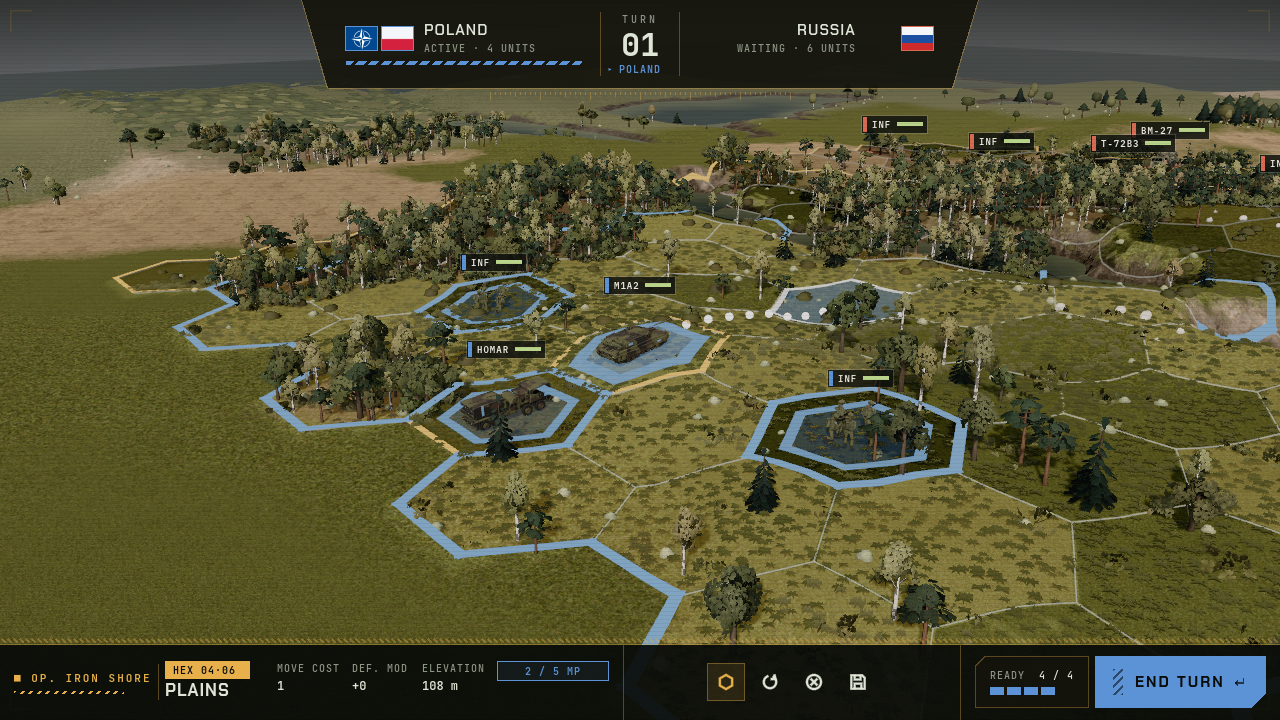
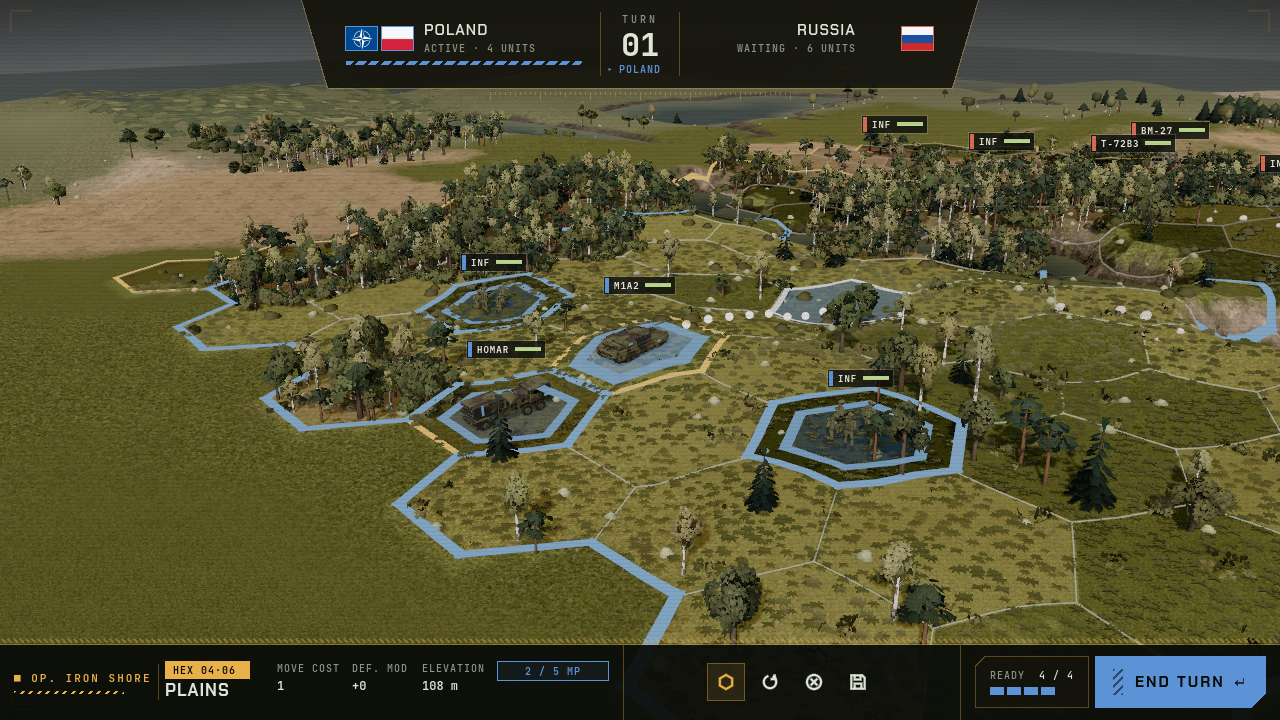
TASK-108h: Real-terrain look v2 – `soil` ground layer and URBAN farmyards (to playtest, night run)

diff --git a/docs/MANUAL.md b/docs/MANUAL.md
@@ -268,7 +268,7 @@ In a battle with command points it spends its points on its most valuable action
 - **Terrain panel** (bottom left): the hovered tile's terrain, hex position (column·row), movement cost (the terrain's own cost), defense bonus and elevation, tags such as `IMPASSABLE`, `ROAD` (a road leaves this hex) and `RIVER +1` (entering this hex costs 1 more), plus a `PATH · 2 / 5 MP` row (in your faction colour) when you have a unit selected and the tile is reachable. Above the panel, `■ OP. IRON SHORE` names the operation.
 - **Selection**: selecting a unit outlines the area it can reach in your colour and slightly darkens the rest of the map; the tile under the cursor is tinted when the unit can move there. Water is never darkened, and unreachable tiles inside the area (such as a lake) get their own outline.
 - **Beyond the map edge**: the land around the map (a little greyer and paler, with trees on HIGH graphics) is scenery only. You can't hover or click tiles there, units can't go there, and the camera can't be panned off the map.
-- **Roads and rivers** (real-terrain maps only): roads are drawn at their real width as narrow gravel roads (a 5 m carriageway with two darker wheel ruts and grassy-earth verges that fade into the ground; they never get thinner than about a pixel and a half on screen, so they stay visible when zoomed out), and rivers as thin blue-grey lines, each running from hex centre to hex centre across the hex sides it links. Trees, rocks and grass don't grow on them. Fields are drawn as large straight strips of one crop each (150–400 m wide, up to over a kilometre long, parallel within a region) – muted olive and grey-green young cereal, maize, potatoes and beet, golden grain, pale stubble, brown ploughed soil and meadows – with faint rows and hedgerow strips between neighbours; nothing grows on the crops themselves (no trees, rocks or tall grass), only the hedgerows carry some trees and shrubs; a parcel does not have to follow hex borders (a hex counts as a field when most of it is), and forests, villages, marshes and water stay unpainted. Villages look gravelly, marshes wet and muddy. Marshes are also covered by dense stands of tall reeds with brown seed heads, and reeds grow in patches along river banks (not in villages) – they are only decoration (marsh rules stay: move 2, no defense bonus). (Houses, bridges and a proper river look come later.)
+- **Roads and rivers** (real-terrain maps only): roads are drawn at their real width as narrow gravel roads (a 5 m carriageway with two darker wheel ruts and grassy-earth verges that fade into the ground; they never get thinner than about a pixel and a half on screen, so they stay visible when zoomed out), and rivers as thin blue-grey lines, each running from hex centre to hex centre across the hex sides it links. Trees, rocks and grass don't grow on them. Fields are drawn as large straight strips of one crop each (150–400 m wide, up to over a kilometre long, parallel within a region) – muted olive and grey-green young cereal, maize, potatoes and beet, golden grain, pale stubble, brown ploughed soil and meadows – with faint rows and hedgerow strips between neighbours; nothing grows on the crops themselves (no trees, rocks or tall grass), only the hedgerows carry some trees and shrubs; a parcel does not have to follow hex borders (a hex counts as a field when most of it is), and forests, villages, marshes and water stay unpainted. Villages look like farmyards (gravel, bare soil and grass mixed), marshes wet and muddy. Marshes are also covered by dense stands of tall reeds with brown seed heads, and reeds grow in patches along river banks (not in villages) – they are only decoration (marsh rules stay: move 2, no defense bonus). (Houses, bridges and a proper river look come later.)
 - **Hex grid**: a faint light grid marks the hexes on land (not over water). It fades as you zoom out and is a little stronger while a unit is selected. Press **G** to hide or show it.
 - **Objective hexes** (only in a battle that has them): each is outlined by a coloured ring along its edge, with a small flag on a pole near one corner and an **OBJECTIVE** tag above the flag (visible even over forest). Ring, flag and the tag's tab are in the colour of the side that holds the hex (red for Russia, blue for Poland) and change colour when the hex is captured.
 - **Done units**: a unit that can neither move nor attack any more this turn has a dimmed tag. This includes units that have not acted once your command points run out.

diff --git a/docs/tasks/BACKLOG.md b/docs/tasks/BACKLOG.md
@@ -107,7 +107,7 @@ Operational map principle (human, 2026-11-07, GDD "Operational map"): hexes are 
 | [TASK-108e](TASK-108e-marsh-reeds.md) | Real-terrain look v2 (4/4): reeds on marshes and river banks (grass kind `REED`, 10 m bank band, no new RNG draws, none on LOW) | 🔵 done | TASK-108 (soft: TASK-108c, TASK-110; priority: after TASK-095) |
 | [TASK-108f](TASK-108f-field-parcels-crops.md) | Real-terrain look: regular field parcels with crop variety (wheat, maize, potatoes, young cereal, stubble, ploughed, meadow) – baked parcel image + row stripes in the terrain shader, majority rule per parcel (not per hex), grass thinned on crops; supersedes the field strips of TASK-108b | 🔵 done | TASK-108 |
 | [TASK-108g](TASK-108g-subhex-land-cover.md) | Real-terrain look: visuals from a sub-hex land-cover raster (importer writes 16 m cover plane, `LandCover`; ground, trees, grass, parcels, backdrop stop reading the hex type; hex = mechanics only) | 🟢 ready | TASK-108 |
-| [TASK-108h](TASK-108h-soil-layer-farmyards.md) | Real-terrain look v2: `soil` ground layer (CC0 set) and URBAN farmyards (gravel / soil / grass base); split from TASK-108b | 🟢 ready | TASK-108 |
+| [TASK-108h](TASK-108h-soil-layer-farmyards.md) | Real-terrain look v2: `soil` ground layer (CC0 set) and URBAN farmyards (gravel / soil / grass base); split from TASK-108b | 🟣 to playtest | TASK-108 |
 | [TASK-097a](TASK-097a-deep-strike-core.md) | Deep strike v1 (1/2, core): means as data with range (cruise, ballistic, strike drones), installations as targets (airfield, depot, C2, air defence – class ids of TASK-115) + formations, per-side stock with `StrikeRules.add_stock` (TASK-122 adds outside support through it), small fixed resupply per round, per-missile resolution via `rng` (accuracy, minimal built-in air defence), range check from own / aligned soil, ROE via `EscalationRules.strike_allowed` / `on_strike`, slow repair of damaged installations, `StrikeCommand` + codec + replay; clickable: installation markers with hover card + F9 debug strike / +stock; the same rules for both sides | 🔵 done | TASK-092b, TASK-115, TASK-093c (soft: TASK-100, TASK-098) |
 | [TASK-097b](TASK-097b-deep-strike-view.md) | Deep strike v1 (2/2, view): strike mode (S) on the staff map – pick means and salvo, legal targets glow, illegal / out-of-range ones dimmed with the reason, confirm card with the escalation warning, result toast and burst marker, stock / strikes-left line | 🔵 done | TASK-097a, TASK-117 |
 | [TASK-122](TASK-122-support-strike-means.md) | Outside support (2/2): strike means as package effects (`MeansGrant` → `StrikeRules.add_stock`), Chinese missile components (only for a restrained Russia, withdrawn otherwise), Iranian drones, allied cruise missiles as NATO's free response **and** the strike-means stock line, delivery / withdrawal toasts in the Support tab | 🔴 blocked | TASK-121, TASK-097a (soft: TASK-141a – ids) |

diff --git a/docs/NIGHT_REPORT.md b/docs/NIGHT_REPORT.md
@@ -1,6 +1,6 @@
 # Night run report
 
-Run 2026-11-11 21:19 - 23:03 (logs and patches of failed tasks: `/home/dawid/night_runs/20261111_2119`).
+Run 2026-11-11 21:19 - 23:35 (logs and patches of failed tasks: `/home/dawid/night_runs/20261111_2119`).
 
 | Task | Result | Status | Note |
 |---|---|---|---|
@@ -11,6 +11,8 @@ Run 2026-11-11 21:19 - 23:03 (logs and patches of failed tasks: `/home/dawid/nig
 | TASK-121 | failed | in progress | session ended with status 'in progress': I'm waiting for the core-logic agent to finish. Its completion will wake me, so I'm not polling. |
 | TASK-081a | ok | done |  |
 | TASK-128 | ok | done |  |
+| TASK-131b | ok | to playtest |  |
+| TASK-146 | failed | ready | session ended with status 'ready': TASK-146 is blocked, so I wrote no code. The status stays `ready`, and the blocker is in the task's "Implementation notes".  The mockup check failed. `docs/design/operational_map/strike_panel.html` has no  |
 
 ## To playtest
 
@@ -23,4 +25,13 @@ Run 2026-11-11 21:19 - 23:03 (logs and patches of failed tasks: `/home/dawid/nig
 5. Pick a weapon whose stock is lower than the salvo: the card shows the capped count; a target out of range shows no forecast rows.
 6. Confirm a few strikes: the real results scatter around the forecast (it is an average, not a promise).
 7. `--side=russia`: the same against Polish targets.
+
+### TASK-131b: Weapon range in the battle UI – range overlay, LoS marks, forecast distance, manual
+
+1. Start the default battle, select a T-72B3: an outline appears out to 8 hexes, a paler band to 12 hexes; forest and hill hexes behind blockers are dimmed.
+2. Select Homar-K: the whole map is outlined except a small hole of 2 hexes around the unit.
+3. Hover an enemy at 10 hexes with the tank selected: tag shows `DIST` and `-25 %`.
+4. Hover an enemy hidden behind a forest: no crosshair; RMB says no line of sight.
+5. Open the unit card and the catalog: ranges in km / m shown, same as the manual.
+6. Watch the frame rate with Homar-K selected (60 FPS).
 

diff --git a/docs/tasks/TASK-108h-soil-layer-farmyards.md b/docs/tasks/TASK-108h-soil-layer-farmyards.md
@@ -1,6 +1,6 @@
 # TASK-108h: Real-terrain look v2 – `soil` ground layer and URBAN farmyards
 
-- **Status**: ready
+- **Status**: to playtest
 - **Layers**: presentation (`TerrainSplat`, `TerrainTextures`, `TerrainGround`, `assets/shaders/terrain.gdshader`) + assets (one CC0 ground set, `credits.json`) + docs (MANUAL)
 - **Depends on**: TASK-108 (done) (split from TASK-108b, 2026-11-10)
 - **Model**: sonnet
@@ -35,4 +35,6 @@ Villages look like farmyards: gravel, bare soil and grass mixed. Needs a new gro
 
 ## Implementation notes
 
-_Filled in by the agent when done._
+- New layer 6 `soil` = Poly Haven "Park Dirt" (CC0, 1k, 3 m repeat) in `assets/third_party/textures/ground/soil/`, credited as `ground_soil`. `LAYER_COUNT` = 7, `TerrainSplat.SOIL`, tints (base + the 3 look presets), shader arrays/varyings grow to 7 (soil in `CUSTOM0.z`, `.w` free), `TerrainGround.add_surface` stores it. URBAN base: gravel 0.40, soil 0.30, grass 0.30 (dirt 0 there). Layer-skip threshold 0.004 already existed in the shader. LOW uses the same layers at 512² via the existing texture size switch.
+- Tests: new splat tests (soil only on URBAN, `CUSTOM0.z` storage), `test_map_view_detail` uses `LAYER_COUNT`. `tools/check.sh` passes. MANUAL §10 updated; README screenshot refreshed.
+- NOT done: GPU frame-time before/after (budget +0.3 / +0.2 ms) was not measured, and the Suwałki screenshot showed no village close enough to judge the farmyard look - the human must check both.

diff --git a/docs/CODEMAP.md b/docs/CODEMAP.md
@@ -189,8 +189,8 @@ Grep it (`class name`, a keyword) instead of exploring the tree; open the file f
 - `TargetRingModel` – Pure model of the unit ring (TASK-089b): RMB on a unit opens the HUD v3 radial ring on it… (`target_ring_model.gd`)
 - `TerrainGround` – The terrain ground of MapView (TASK-055): the ShaderMaterial on assets/shaders/terrain.gd… (`terrain_ground.gd`)
 - `TerrainPanelModel` – Pure model of the bottom-left terrain panel. Returns untranslated English strings; (`terrain_panel_model.gd`)
-- `TerrainSplat` – Pure per-vertex ground layer weights for the terrain shader (TASK-055): which of the six (`terrain_splat.gd`)
-- `TerrainTextures` – The six CC0 ground layers of the terrain shader (TASK-055, credits in (`terrain_textures.gd`)
+- `TerrainSplat` – Pure per-vertex ground layer weights for the terrain shader (TASK-055): which of the seven (`terrain_splat.gd`)
+- `TerrainTextures` – The seven CC0 ground layers of the terrain shader (TASK-055, credits in (`terrain_textures.gd`)
 - `TreeField` – The trees of a MapView (TASK-060): the planned trees (ScatterPlanner, map and backdrop) a… (`tree_field.gd`)
 - `TreeMeshes` – Pure procedural tree geometry (TASK-060). Every species (TreeSpecies: pine, spruce, birch, (`tree_meshes.gd`)
 - `TreeSpecies` – Species, variant and per-instance variation of a planned tree (TASK-060). Pure and static… (`tree_species.gd`)
